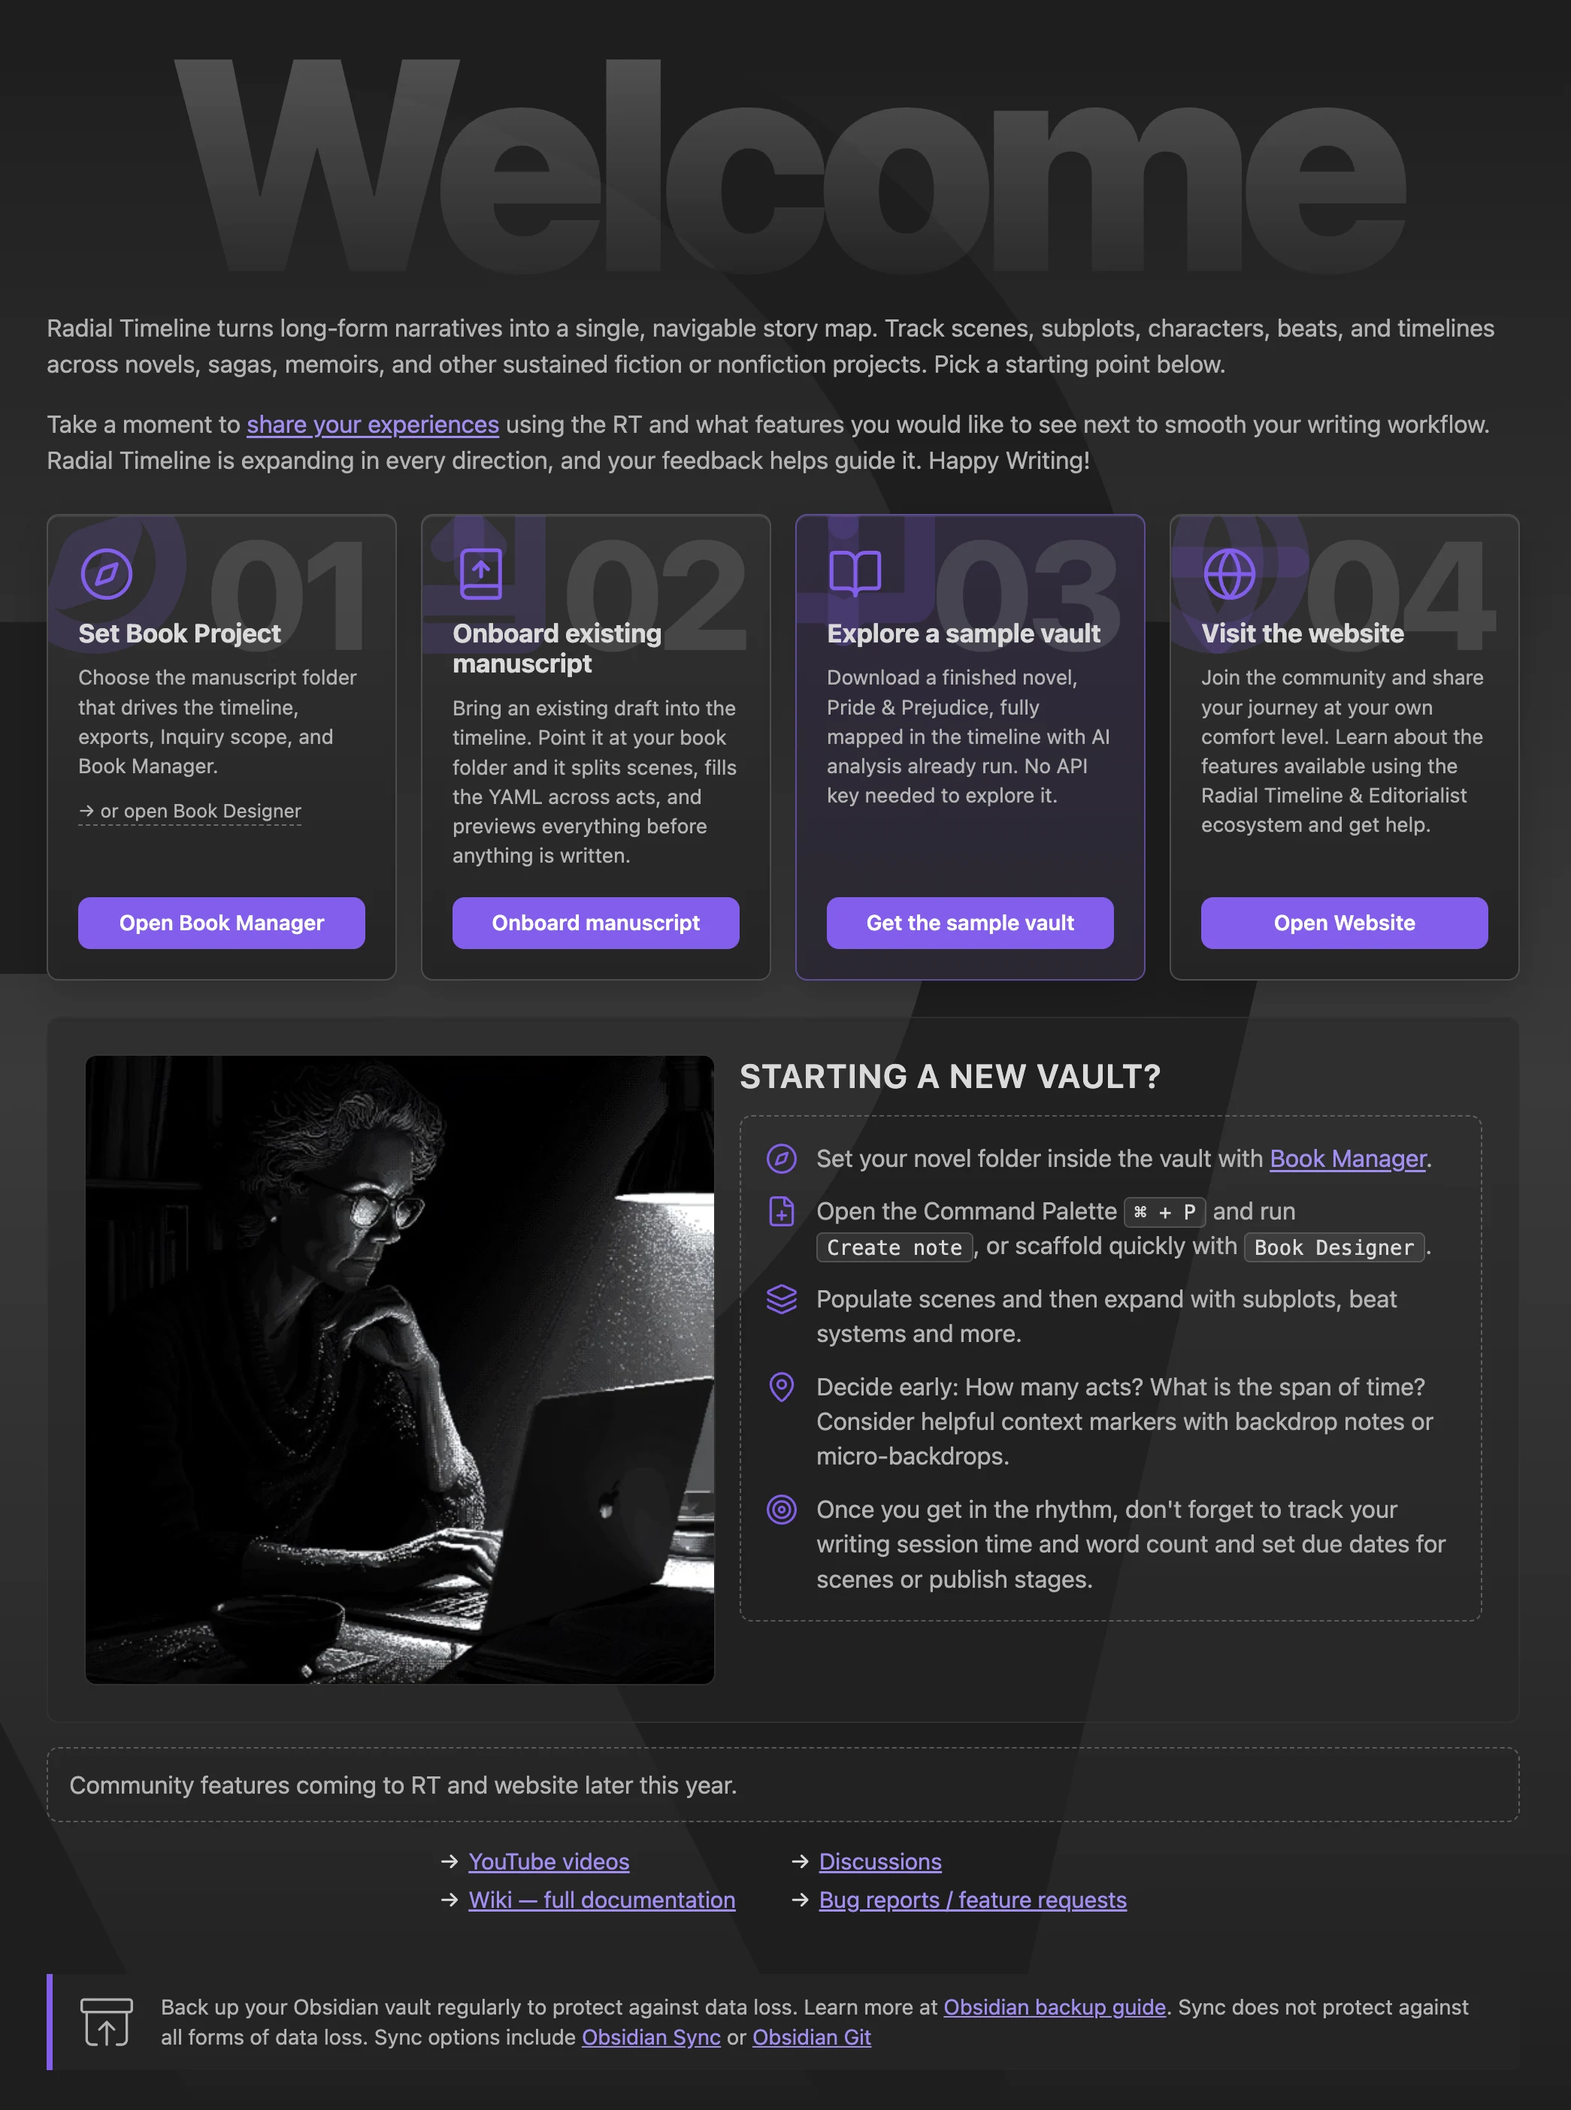
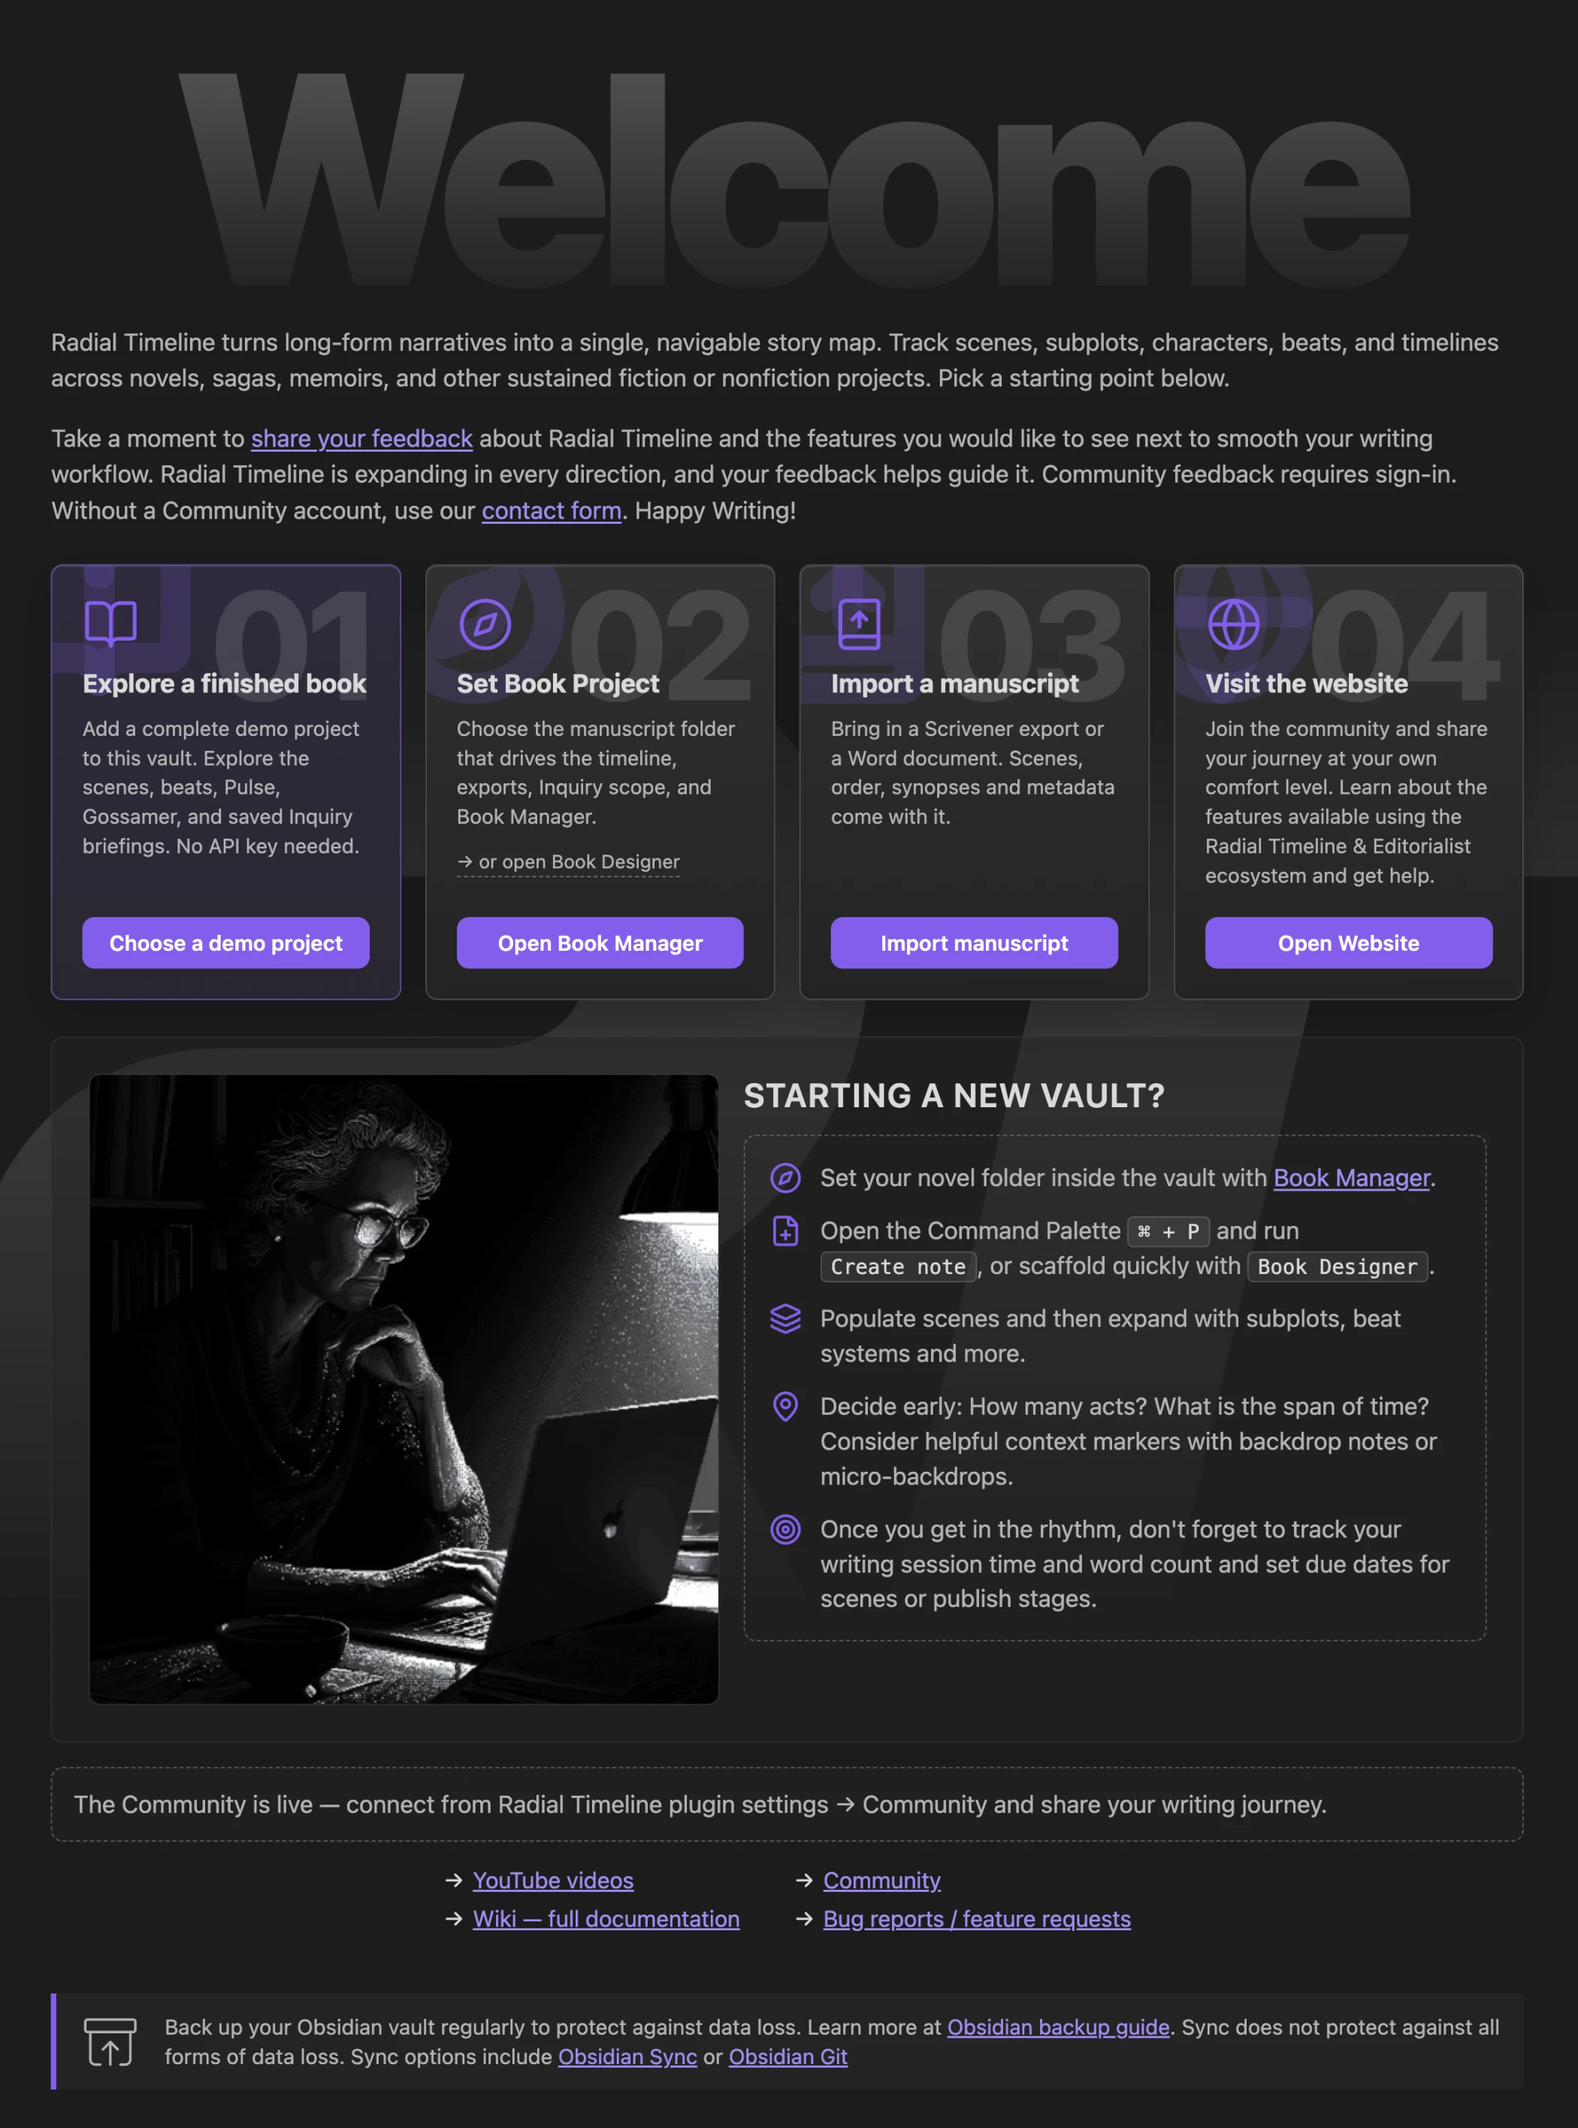
Wiki: 7.5.0 screenshots and Book Designer labels
New stills of the published 7.5.0 build: the welcome screen (new card
order), the whole Book Designer panel, Project metadata, a scene's core
properties, Narrative mode with Save the Cat beats, and the stage target
markers on the centre year ring.

Getting Started now lists the welcome cards in their 7.5.0 order and names
Create note → Scene → Core scene (there is no "Basic scene"). Book Designer
uses the panel's own labels: Target book, Date increment per scene, Scene
Sets & Extras, Scene layouts, and dragging in the preview for manual mode.

diff --git a/wiki/Book-Designer.md b/wiki/Book-Designer.md
@@ -17,8 +17,8 @@ You can open Book Designer in two ways:
 2.  **Welcome Screen**: Under **Set Book Project**, choose **→ or open Book Designer**.
 
 <div style="text-align: center; margin: 20px 0;">
-  <img src="images/panel-book-designer.png" alt="Book Designer panel with preview donut chart" style="width: 550px; max-width: 100%; border-radius: 8px;" />
-  <div style="font-size: 0.85em; margin-top: 8px; color: #666;">Book Designer — configure structure, subplots, and scene properties with live preview</div>
+  <img src="images/panel-book-designer.png" alt="Book Designer panel: target book, scene count, three acts, three subplots and the live preview" style="width: 480px; max-width: 100%; border-radius: 8px;" />
+  <div style="font-size: 0.85em; margin-top: 8px; color: #666;">Book Designer — configure structure, subplots, and scene sets with a live preview you can drag scenes in</div>
 </div>
 
 ## Workflow
@@ -26,7 +26,8 @@ You can open Book Designer in two ways:
 The panel is organized into three main sections:
 
 ### 1. Location & Structure
-*   **Target location**: The folder path where your new book files will be created (e.g., `Book 1`). The folder will be created if it doesn't exist. Otherwise root of the vault will be used.
+*   **Target book**: The Book Manager project where scenes and beats will be created. Add the book in Book Manager and set its folder first.
+*   **Date increment per scene**: How far story time advances from one scene to the next (e.g. 1 hour, 1 day, 1 week). Set it to 0 to disable increments.
 *   **Scenes to generate**: The total number of scene files to create.
 *   **Target book length**: Used for numbering distribution. For example, if you generate 10 scenes with a target length of 60, scenes will be numbered 1, 8, 14 … 60, leaving gaps for future scenes.
 *   **Acts to distribute scenes across**: Choose which acts (1..N) to populate, where **N** comes from your **Settings → Core → Acts → Act count**. Scenes are distributed evenly across the selected acts.
@@ -35,16 +36,17 @@ The panel is organized into three main sections:
 *   **Subplots**: Enter your subplots, one per line. Scenes will be assigned to these subplots in a round-robin fashion. Each scene will belong to only one subplot.
 *   **Characters**: Enter your main characters, one per line. These will be added to the YAML frontmatter of the generated scenes.
 
-### 3. Scene Properties & Extras
-*   **Scene properties**: Choose between **Core properties** (minimal) and **Advanced properties**. The advanced properties profile can be customized in settings.
-*   **Generate Beats**: Optionally generate beat sheet files based on your selected beat system (e.g., Save the Cat, configured in Settings).
+### 3. Scene Sets & Extras
+*   **Scene set**: Choose between the **Base Scene Set** (core properties) and **Advanced properties**. The advanced properties profile can be customized in settings.
+*   **Generate beats**: Named after your active beat system (e.g. **Generate Save The Cat beats**). Choose **Yes** to create beat notes alongside the scenes.
+*   **Scene layouts**: **Save Scene Set** keeps the current layout (acts, subplots, assignments, metadata) to reuse later; pick a saved one from the list. **Reset** returns to auto distribution. **Demo Project** builds a sample book with scenes, acts, subplots, beats, and chronologue timing.
 
 ## Visual Preview
-As you adjust the settings, the **Preview** donut chart updates in real time to show how scenes will be distributed across acts and subplots. This lets you inspect the structure before any files are generated. If you want a different shape afterward, reopen Book Designer and regenerate.
+As you adjust the settings, the **Preview** donut chart updates in real time to show how scenes will be distributed across acts and subplots. This lets you inspect the structure before any files are generated. Drag a scene in the preview to another act or subplot ring to place it by hand; the header switches from **Auto mode** to **Manual mode**. If you want a different shape afterward, reopen Book Designer and regenerate.
 
 ## Generate the Manuscript Scaffold
 Once configured, click **Create Book**. The plugin will:
-1.  Create the target folder.
+1.  Create the book's folder if it doesn't exist yet.
 2.  Generate individual markdown files for each scene, populated with the correct YAML frontmatter (scene number, act, subplot, characters, date).
 3.  (Optional) Create beat sheet notes if selected.
 
@@ -53,7 +55,7 @@ You'll see a notification confirming the number of scenes and files created. You
 ## Customizing Scene Properties
 
 Book Designer supports two built-in scene property profiles:
-1.  **Core properties**: A minimal profile with the essential fields required for Radial Timeline.
+1.  **Core properties** (the **Base Scene Set**): A minimal profile with the essential fields required for Radial Timeline.
 2.  **Advanced properties**: A richer profile with analysis, stats, and additional workflow fields.
 
 ### Adding Custom Properties
@@ -70,7 +72,7 @@ If your writing methodology uses fields beyond the built-in keys (for example Dr
 If you use a story structure not listed in the standard options:
 1.  Go to **Settings → Core → Story beats system** and select **Custom**.
 2.  Name your beat system and add beats in the **Custom story beat system editor**. Assign each beat to an act.
-3.  In the Book Designer, enable **Generate Beats** to automatically generate beat notes for your custom system.
+3.  In the Book Designer, set **Generate … beats** to **Yes** to generate beat notes for your custom system.
 
 After generating beats, you can reorder or rename them in the editor. Row colors indicate sync status (green = aligned, orange = needs merge, red = duplicate). Use **Merge** to realign existing files after changes.
 

diff --git a/wiki/Getting-Started.md b/wiki/Getting-Started.md
@@ -4,16 +4,16 @@ You get two workspaces: the **[Radial Timeline View](Radial-Timeline-View)** for
 
 <div style="display: flex; justify-content: center; margin: 20px 0;">
   <div style="text-align: center;">
-    <img src="images/welcome.webp" alt="Radial Timeline welcome screen with quick-start guide" style="width: 640px; max-width: 100%; border-radius: 10px; box-shadow: 0 6px 14px rgba(0,0,0,0.12);" />
+    <img src="images/welcome.webp" alt="Radial Timeline welcome screen: Explore a finished book, Set Book Project, Import a manuscript, Visit the website" style="width: 640px; max-width: 100%; border-radius: 10px; box-shadow: 0 6px 14px rgba(0,0,0,0.12);" />
     <div style="font-size: 0.85em; margin-top: 8px; color: #666;">Welcome screen — quick-start guide for new vaults</div>
   </div>
 </div>
 
 The Welcome screen offers these starting points:
 
-1.  **Set Book Project** — choose the manuscript folder that drives the timeline, exports, Inquiry scope, and Book Manager. Use this when starting scene notes yourself.
-2.  **Manuscript onboarding** — bring an existing draft in from a [Scrivener export, a Word document, or one big file](Onboard-Existing-Manuscript), with **Structure only — no AI** as the default. See the onboarding page for build availability.
-3.  **Explore a finished book** — add a free, fully analyzed demo such as [Pride & Prejudice](Sample-Vault) or [The Odyssey](Odyssey-Demo-Vault) to this vault from the demo chooser. No API key needed to explore it.
+1.  **Explore a finished book** — add a free, fully analyzed demo such as [Pride & Prejudice](Sample-Vault) or [The Odyssey](Odyssey-Demo-Vault) to this vault from the demo chooser. No API key needed to explore it.
+2.  **Set Book Project** — choose the manuscript folder that drives the timeline, exports, Inquiry scope, and Book Manager. Use this when starting scene notes yourself, or follow **→ or open Book Designer** to plan the book first.
+3.  **Import a manuscript** — bring an existing draft in from a [Scrivener export, a Word document, or one big file](Onboard-Existing-Manuscript), with **Structure only — no AI** as the default. See the onboarding page for build availability.
 4.  **Visit the website** — [radialtimeline.com](https://radialtimeline.com) for support docs and the [Community](Settings-Community), where you can share your writing journey at your own comfort level.
 
 > **Coming from Scrivener, Word, or another tool?** **[Manuscript onboarding](Onboard-Existing-Manuscript)** lets you select an export directly and review scene notes before writing them. A supplied Scrivener outline CSV determines import order; without one, numbered filenames determine it. You map exported metadata once during import. See [Scene Properties (Core + Advanced)](YAML-Frontmatter) for the full schema.
@@ -28,7 +28,7 @@ Choose a vault layout and stick with it: a single-book vault, a single vault wit
 
 **2. Bring in scenes.**
 
-*   *Fresh vault:* run **Radial timeline: Book designer** to generate a scaffold (acts, subplots, optional beats), or run **Radial timeline: Create note… → Scene → Basic scene** to start with a single scene.
+*   *Fresh vault:* run **Radial timeline: Book designer** to generate a scaffold (acts, subplots, optional beats), or run **Radial timeline: Create note… → Scene → Core scene** to start with a single scene.
 *   *Existing vault:* your scene notes should use `Class: Scene`. The main scene properties are `Act`, `Synopsis`, and `Subplot`. Chronologue uses `When` and `Duration`; Progress uses `Status` and `Publish Stage`. If your vault uses different property names, enable **Remap frontmatter field keys** under **Settings → Advanced → Configuration**.
 
 **3. Choose a beat system (optional).** Pick from the built-in systems (**Save the Cat**, **Hero's Journey**, **Classic Dramatic Structure**, plus podcast, video, documentary, romance, and thriller arcs) or build a **Custom** system in [Settings → Core → Story beats system](Settings-Core#story-beats-system). Use **Create** to generate beat notes; **Merge** to realign existing files after changes.

diff --git a/wiki/Settings-Core.md b/wiki/Settings-Core.md
@@ -19,6 +19,11 @@ To import an existing draft, use **Choose manuscript**. **Scan for exports** sug
 *   **Create draft**: Make a sibling draft copy of a book folder and add it as a new book profile.
 *   **Remove profile**: Removes the book profile and preserves its files.
 
+<div style="text-align: center; margin: 20px 0;">
+  <img src="images/panel-project-metadata.png" alt="Project metadata dialog: genre, project stage, public label and description" style="width: 380px; max-width: 100%; border-radius: 8px;" />
+  <div style="font-size: 0.85em; margin-top: 8px; color: #666;">Project metadata — the description adds optional details on the Community website</div>
+</div>
+
 ## Progress And Status
 
 Manage your project milestones and status tracking.
@@ -31,6 +36,11 @@ Manage your project milestones and status tracking.
 *   **Press target date**: Target completion date for the Press Ready stage. Must be after the House target date.
 
 Target dates are validated to ensure proper stage ordering. Overdue dates are highlighted in red. Each stage has its own color-coded marker on the timeline.
+
+<div style="text-align: center; margin: 20px 0;">
+  <img src="images/progress-target-ticks.png" alt="Stage target markers on the year ring at the centre of the timeline, with the Author target tooltip" style="width: 400px; max-width: 100%; border-radius: 8px;" />
+  <div style="font-size: 0.85em; margin-top: 8px; color: #666;">Stage target markers on the centre year ring — hover one to see its date</div>
+</div>
 
 *   **Show estimated completion date**: Toggles the predicted completion tick mark on the timeline.
 *   **Zero draft mode**: A focused mode for first-draft writing. Intercepts clicks on scenes with `Publish Stage = Zero` and `Status = Complete` to open a `Pending Edits` panel instead of the full note.

diff --git a/wiki/Narrative-Mode.md b/wiki/Narrative-Mode.md
@@ -18,6 +18,11 @@ Narrative Mode is your primary manuscript-order workspace. It displays all scene
 *   **Scene right-click menu**: Add a scene after the current one, set a chapter marker, change Status, change Publish Stage, or flag it for Pulse — see below.
 *   **Recent moves overlay**: Narrative Mode can show a top-left list of recent committed scene and beat moves. Toggle it in [Settings → Advanced → Configuration](Settings-Advanced#configuration).
 
+<div style="text-align: center; margin: 20px 0;">
+  <img src="images/mode-narrative-beats.png" alt="Narrative Mode with Save the Cat beats around the outer ring and the recent moves overlay at top left" style="width: 480px; max-width: 100%; border-radius: 8px;" />
+  <div style="font-size: 0.85em; margin-top: 8px; color: #666;">Save the Cat beats around the outer ring, with the recent moves overlay at top left</div>
+</div>
+
 ## Subplot Alignment: Fill vs Sequence
 
 The **alignment chip** at the left of the mode row switches how subplot rings lay out their scenes. It applies in Narrative, Chronologue, and Gossamer modes.

diff --git a/wiki/YAML-Frontmatter.md b/wiki/YAML-Frontmatter.md
@@ -27,6 +27,11 @@ Summary Update:           # Summary scene refresh flag
 
 Book Designer and Create note generate the core scaffold above. `ID` is inserted automatically for stable scene citations, and the scene properties editor can maintain the current core and advanced field order.
 
+<div style="text-align: center; margin: 20px 0;">
+  <img src="images/scene-properties.png" alt="A scene note's core properties in Obsidian's Properties view" style="width: 420px; max-width: 100%; border-radius: 8px;" />
+  <div style="font-size: 0.85em; margin-top: 8px; color: #666;">A scene’s core properties as Obsidian shows them at the top of the note</div>
+</div>
+
 **For multiple subplots or characters, use YAML list format:**
 ```yaml
 Subplot:
